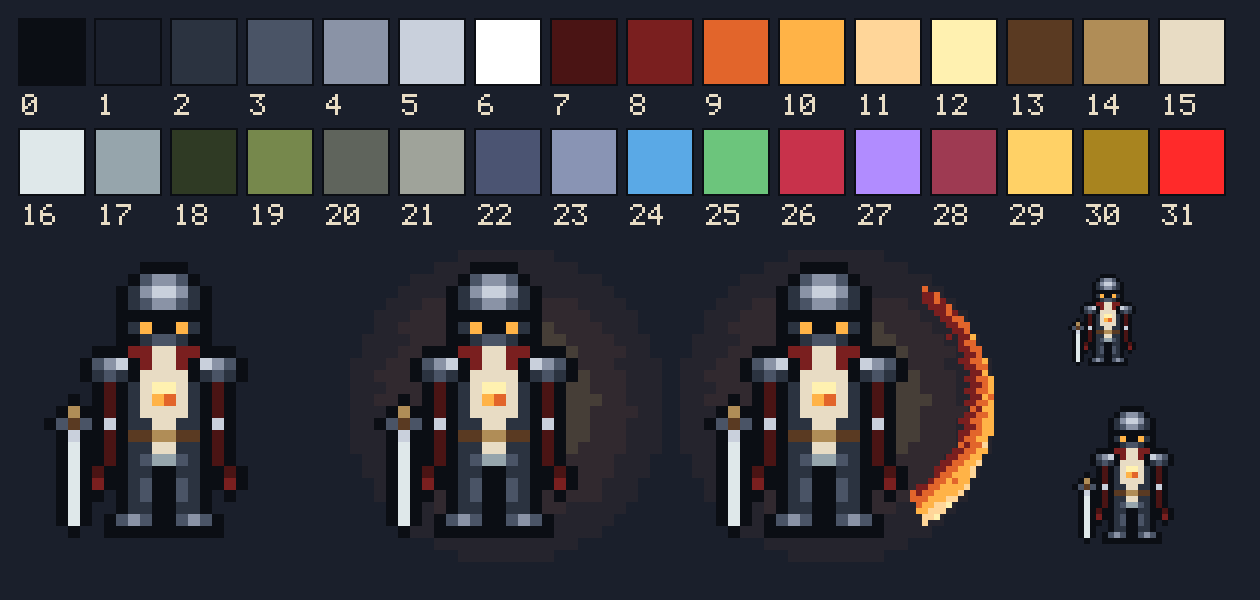
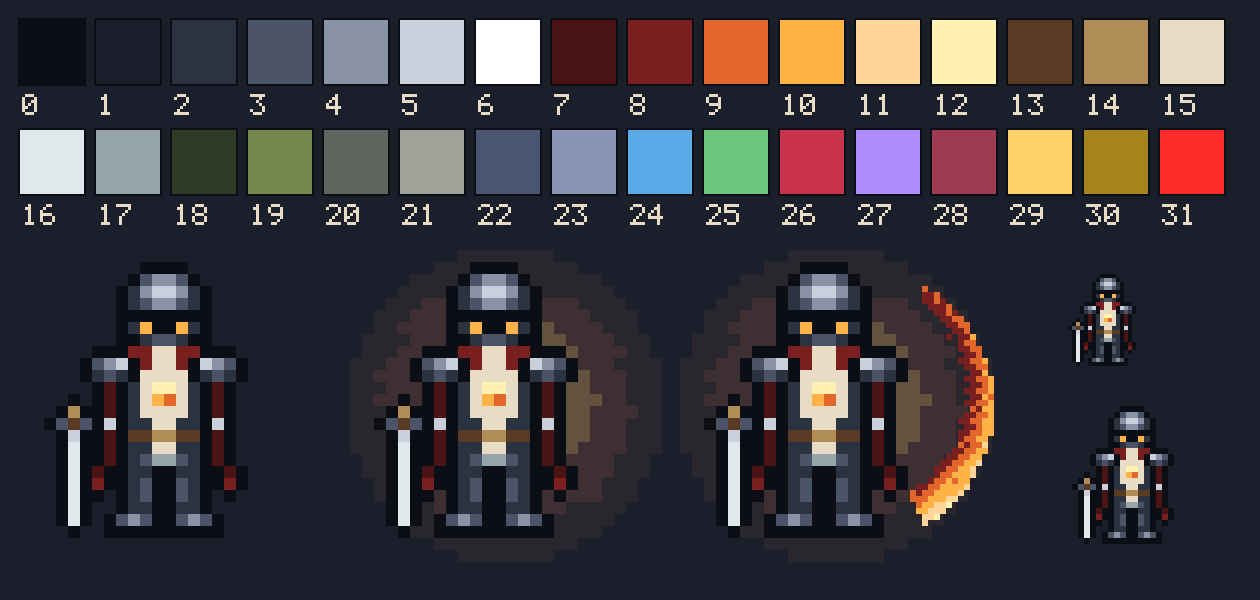
F-011 etapas 3 e 4: registro no progress.md e as amostras do style card regeradas com a arte corrigida
Claude-Session: https://claude.ai/code/session_01W38UpsKkbYVQowxztRRzy8

Changed region(s): [[0.681, 0.54, 0.7429, 0.75], [0.4333, 0.63, 0.4952, 0.75], [0.4024, 0.54, 0.4643, 0.6]]

diff --git a/progress.md b/progress.md
@@ -2,7 +2,7 @@
 
 ## Sessão 8 — F-011 "Arte do jogo (até a F-007)"
 
-### Estado: etapas 1 e 2 prontas (style card aprovado em 2026-10-12, "Aprovo o style card, pode seguir para a etapa 2"); a etapa 2 aguarda a aprovação do usuário; etapas 3 e 4 não começadas
+### Estado: F-011 pronta (aguarda o teste no iPhone, itens A1 a A12 do roteiro); style card aprovado ("Aprovo o style card, pode seguir para a etapa 2") e produção aprovada ao pedir as etapas 3 e 4 ("Faça a etapa 3 e 4 por favor"), 2026-10-12
 
 Branch `claude/clever-galileo-26bjed`, criada de `origin/claude/f006-esquiva-weodg1`. Pedido do usuário (2026-10-12): arte 100% por código (grade de índices da paleta do doc 13 e efeitos procedurais), personagem 24 × 24, o resto do menor tamanho que funcione, muitos detalhes de efeitos e de armas, só apresentação, em 4 etapas com parada para aprovação ao fim da 1 e da 2.
 
@@ -14,8 +14,8 @@ Branch `claude/clever-galileo-26bjed`, criada de `origin/claude/f006-esquiva-weo
   - **render:** `src/arte/catalogo.ts` → atlas 1024 (NEAREST depois do `refresh`), quadro por passo da simulação (pausado, a imagem só depende do estado), inimigos virados para o jogador, GPU e Image idênticos no pixel; HUD em pixel (joystick, Aparo, Frasco, pausa), Aldric respirando no Acender e a mancha com anel, Alma e seta;
   - **testes:** `tests/arte/` (paleta, contorno fechado, tamanhos, linha dos pés, cor quente, cor de identidade no centro, atlas) e `tests/cenas/` (465 verdes, alocação ≤ 16 B por passo); `e2e/f011.spec.ts` grava as 6 capturas 390 × 844 em `production/evidencias/F-011/`, e `tests/arte/folhas.test.ts` a folha de todas as molduras.
   - **branch compartilhada:** outra sessão faz a F-008 na mesma branch; cada envio foi rebaseado sobre o dela, e os conflitos em `src/cenas/render/horda.ts` mantiveram o `COR_DOS_ELITES` e o molde provisório dela, com a arte do Coroado por cima. Decisões da produção no style card §11.
-- [ ] Etapa 3, revisão de consistência por subagente.
-- [ ] Etapa 4, capturas 390 × 844 de cada cena, roteiro do iPhone e `verify.sh` completo.
+- [x] **Etapa 3, revisão de consistência:** subagente independente (só leitura) comparou as molduras com o style card pela folha, pelas capturas e pelas grades; 8 divergências, cada uma conferida antes de corrigir. Aplicadas 7: o passo do Aldric (o corpo desce 1 px nos quadros de contato), as dobras contínuas do Oco das Lanternas, o fio Y do golpe, rachaduras em D e o musgo em capa nas rochas, a luz da brasa mais forte (alfa 18 a 110) e as vagas e as Almas legíveis sobre a horda. Não aplicada: baixar o alfa da cunha sólida do telegrafo (é o sinal da janela do aparo, decisoes-F-006 RE5); vai para o iPhone. Registro em `design/arte/revisao-F-011.md`.
+- [x] **Etapa 4, teste em jogo:** as 6 capturas 390 × 844 regeradas e conferidas uma a uma (resultado no mesmo registro); itens A1 a A12 da arte no `docs/roteiro-iphone.md`; o teste do `feature_list.json` passou a aceitar features de fora do B §4 (a F-011 quebrava os 4 testes dele desde a etapa 1, pego só agora pelo Vitest completo); `scripts/verify.sh --feature F-011 --taps-game --seed 1` completo uma vez no fim (em execução; o resultado entra aqui).
 
 ## Sessão 7 — F-007 "HP, Frascos, armadura, Apagar e Cinzas Perdidas"
 
@@ -309,7 +309,7 @@ Branch `claude/clever-galileo-26bjed`, criada de `origin/claude/f006-esquiva-weo
 - **Sessão 5:** fechou na F-005.
 - **Sessão 6:** fechou na F-006.
 - **Sessão 7:** fecha na F-007, que aguarda a revisão do usuário. A F-008 não foi começada.
-- **Sessão 8 (F-011, arte):** parou ao fim da etapa 2, à espera da aprovação do usuário. Para retomar: ler `design/arte/style-card.md` (§0, §10 e §11) e a F-011 no `feature_list.json`; seguem a etapa 3 (revisão de consistência por subagente, contra as capturas e a folha em `production/evidencias/F-011/`) e a 4.
+- **Sessão 8 (F-011, arte):** fecha na F-011 pronta, à espera do teste no iPhone (itens A1 a A12 do roteiro). Para mexer na arte: `design/arte/style-card.md` (§10 e §11), `design/arte/revisao-F-011.md`, `src/arte/` e `node scripts/arte/rodar.mjs previa|folhas|amostras`.
 - **Próxima sessão (F-008), com o mesmo método:**
   - ler este arquivo, o ADR-0009, `design/decisoes-F-007.md` (sobretudo a §13, as recomendações para as F-008 a F-010) e a entrada da F-008 no `feature_list.json`;
   - antes de implementar, fechar as pendências da F-008 (levantamento, revisão adversarial e §0 para veto), e só então a Etapa 2;
